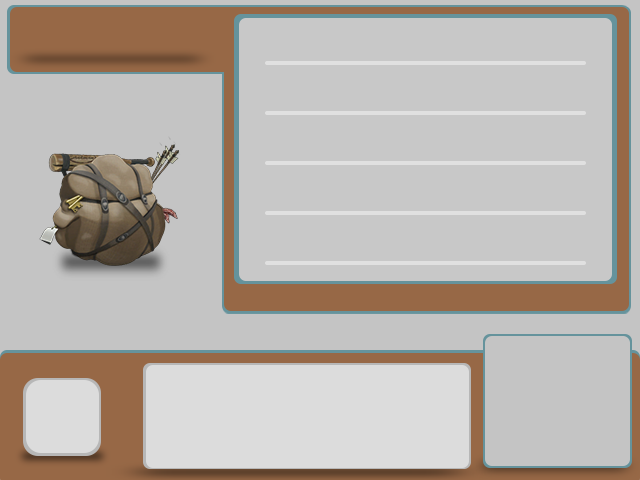
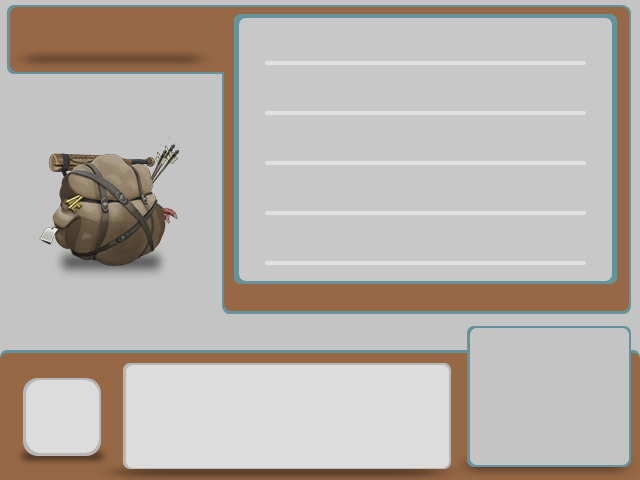
bag

Changed region(s): [[0.6875, 0.6562, 1.0, 1.0], [0.1875, 0.75, 0.25, 1.0], [0.9688, 0.9375, 1.0, 0.9688]]

diff --git a/core/src/com/mygdx/game/BagScreen.java b/core/src/com/mygdx/game/BagScreen.java
@@ -45,6 +45,7 @@ public class BagScreen implements Screen {
 	private ImageButton toolIcon;
 	private TextButton[] tools;
 	private TextButton use;
+	private TextButton delete;
 	private TextButton exit;
 	
 	public BagScreen(final GameSlagyom game) {
@@ -84,6 +85,8 @@ public class BagScreen implements Screen {
 		toolIcon = new ImageButton(toolDraw);
 		tools = new TextButton[5];
 		use = new TextButton("Use", MenuScreen.skin);
+		delete = new TextButton("Delete", MenuScreen.skin);
+
 		exit = new TextButton("Return", MenuScreen.skin);
 		tools[0] = new TextButton("Blue potion", MenuScreen.skin);
 		tools[1] = new TextButton("Red potion", MenuScreen.skin);
@@ -128,17 +131,22 @@ public class BagScreen implements Screen {
 		mainTable.add(tools[1]);
 		mainTable.add(toolIcon);
 		
-		use.setPosition(468, 98);
-		exit.setPosition(468, 48);
+		use.setPosition(473, 110);
+		delete.setPosition(473, 70);
+		exit.setPosition(473, 30);
+
 		optionTable.add(use);
+		optionTable.add(delete);
 		optionTable.add(exit);
 		
 		if (selection) {
 			use.setVisible(true);
+			delete.setVisible(true);
 			exit.setVisible(true);
 			toolIcon.setVisible(true);
 		} else if (!selection) {
 			use.setVisible(false);
+			delete.setVisible(false);
 			exit.setVisible(false);
 			toolIcon.setVisible(false);
 		}
@@ -146,13 +154,13 @@ public class BagScreen implements Screen {
 		stage.addActor(mainTable);
 		stage.addActor(optionTable);
 		
-		
 	}
 
 	
 	private void showInfo (){
 		selection = true;
 		use.setVisible(true);
+		delete.setVisible(true);
 		exit.setVisible(true);
 		toolIcon.setVisible(true);
 	}
@@ -160,6 +168,7 @@ public class BagScreen implements Screen {
 	private void hideInfo () {
 		selection = false;
 		use.setVisible(false);
+		delete.setVisible(false);
 		exit.setVisible(false);
 		toolIcon.setVisible(false);
 		
